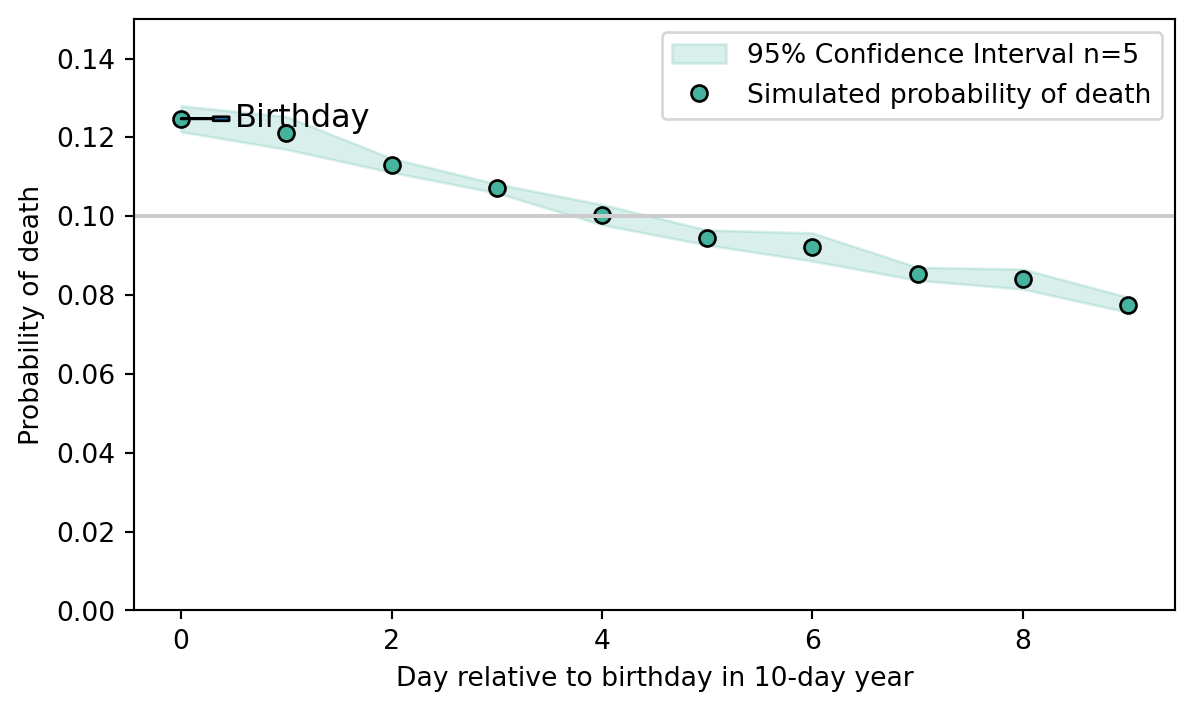
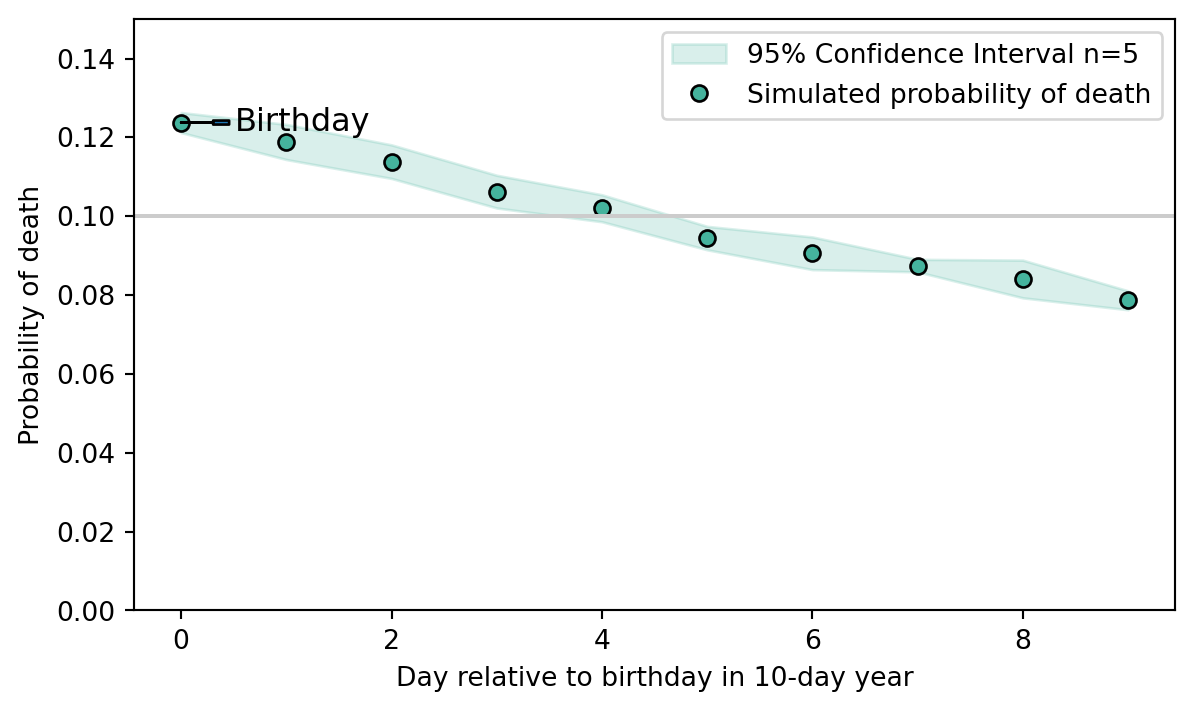
Built site for gh-pages

Changed region(s): [[0.124, 0.1238, 0.5578, 0.3404], [0.5578, 0.3094, 0.9606, 0.4641]]

diff --git a/posts/index.html b/posts/index.html
@@ -154,7 +154,7 @@ ul.task-list li input[type="checkbox"] {
 
 <div class="quarto-listing quarto-listing-container-default" id="listing-listing">
 <div class="list quarto-listing-default">
-<div class="quarto-post image-right" data-index="0" data-listing-date-sort="1689292800000" data-listing-file-modified-sort="1692969305558" data-listing-date-modified-sort="NaN" data-listing-reading-time-sort="13">
+<div class="quarto-post image-right" data-index="0" data-listing-date-sort="1689292800000" data-listing-file-modified-sort="1692970272724" data-listing-date-modified-sort="NaN" data-listing-reading-time-sort="13">
 <div class="thumbnail">
 <p><a href="../posts/2023-07-13-dangerous-birthdays/2023-07-13-dangerous-birthdays.html"> <p class="card-img-top"><img src="2023-07-13-dangerous-birthdays/2023-07-13-dangerous-birthdays_files/figure-html/cell-5-output-1.png"  class="thumbnail-image card-img"/></p> </a></p>
 </div>
@@ -179,7 +179,7 @@ Jul 14, 2023
 </a>
 </div>
 </div>
-<div class="quarto-post image-right" data-index="1" data-listing-date-sort="1689292800000" data-listing-file-modified-sort="1692969305558" data-listing-date-modified-sort="NaN" data-listing-reading-time-sort="1">
+<div class="quarto-post image-right" data-index="1" data-listing-date-sort="1689292800000" data-listing-file-modified-sort="1692970272724" data-listing-date-modified-sort="NaN" data-listing-reading-time-sort="1">
 <div class="thumbnail">
 <p><a href="../posts/2023-07-13-hello-world/hello-world.html"> <div class="listing-item-img-placeholder card-img-top" >&nbsp;</div> </a></p>
 </div>

diff --git a/posts/2023-07-13-dangerous-birthdays/2023-07-13-dangerous-birthdays.html b/posts/2023-07-13-dangerous-birthdays/2023-07-13-dangerous-birthdays.html
@@ -309,7 +309,7 @@ Warning
 <span id="cb3-18"><a href="#cb3-18" aria-hidden="true" tabindex="-1"></a></span>
 <span id="cb3-19"><a href="#cb3-19" aria-hidden="true" tabindex="-1"></a><span class="co"># Compute mean and confidence interval </span></span>
 <span id="cb3-20"><a href="#cb3-20" aria-hidden="true" tabindex="-1"></a>mean <span class="op">=</span> replicates.mean(axis<span class="op">=</span><span class="dv">1</span>)</span>
-<span id="cb3-21"><a href="#cb3-21" aria-hidden="true" tabindex="-1"></a>ci <span class="op">=</span> t.ppf(<span class="dv">1</span><span class="op">-</span>alpha_level<span class="op">/</span><span class="dv">2</span>, n_replicates)<span class="op">*</span>replicates.std(axis<span class="op">=</span><span class="dv">1</span>)<span class="op">/</span>np.sqrt(n_replicates)</span></code><button title="Copy to Clipboard" class="code-copy-button"><i class="bi"></i></button></pre></div>
+<span id="cb3-21"><a href="#cb3-21" aria-hidden="true" tabindex="-1"></a>ci <span class="op">=</span> t.ppf(<span class="dv">1</span><span class="op">-</span>alpha_level<span class="op">/</span><span class="dv">2</span>, n_replicates<span class="op">-</span><span class="dv">1</span>)<span class="op">*</span>replicates.std(axis<span class="op">=</span><span class="dv">1</span>)<span class="op">/</span>np.sqrt(n_replicates)</span></code><button title="Copy to Clipboard" class="code-copy-button"><i class="bi"></i></button></pre></div>
 </details>
 </div>
 <div class="cell" data-execution_count="4">
